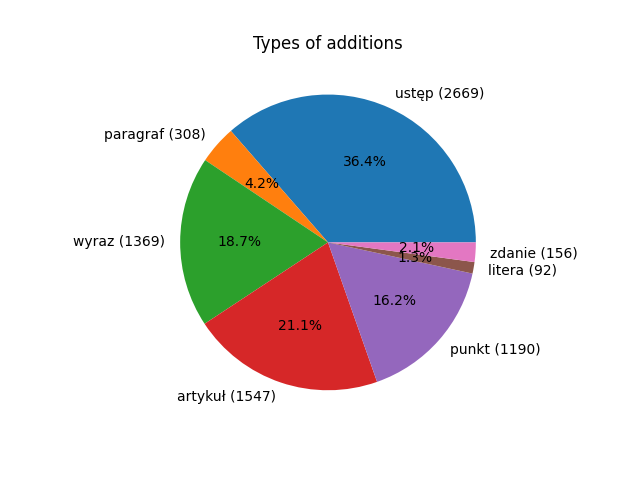
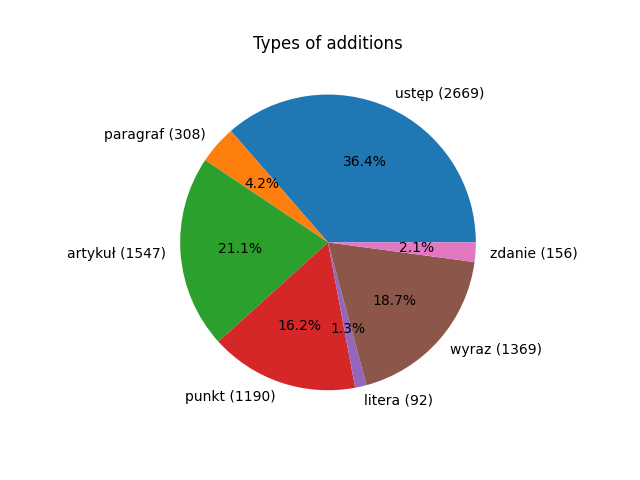
[1] fixes to count by phrase, chart by year

diff --git a/1_regex/main.py b/1_regex/main.py
@@ -1,7 +1,9 @@
+from collections import Counter
+
 from nlp_common.acts_reader import ActsReader
 from by_phrase_counter import ByPhraseUnitCounter
 from matplotlib import pyplot as plt
-
+import numpy as np
 
 class Unit:
     def __init__(self, name, aliases):
@@ -29,35 +31,77 @@ def plot_by_unit(amendment_plot_data, name, path):
     plt.clf()
 
 
-def plot_amendments(adds, rems, chs):
-    plt.pie([adds['ust'], rems['ust'], chs['ust']],
-            labels=[f'additions ({adds["ust"]})', f'removals ({rems["ust"]})', f'changes ({chs["ust"]})'],
+def sum_for_unit(amendments: Counter, unit: Unit):
+    c = 0
+    for alias in unit.aliases:
+        c += amendments[alias]
+    return c
+
+
+def sum_for_units(amendments: Counter, units: [Unit]):
+    c = 0
+    for unit in units:
+        c += sum_for_unit(amendments, unit)
+    return c
+
+
+def plot_amendments(countable_units, adds, rems, chs):
+    ys = [sum_for_units(x, countable_units) for x in [adds, rems, chs]]
+    plt.pie(ys,
+            labels=[f'additions ({ys[0]})', f'removals ({ys[1]})', f'changes ({ys[2]})'],
             autopct='%1.1f%%'
             )
-    plt.title('Amendments of "ustęp"')
-    plt.savefig('img/phrase_counter/ust_amendments.png')
+    plt.title('Amendments of units')
+    plt.savefig('img/phrase_counter/amendments_by_type.png')
     plt.clf()
 
 
-if __name__ == '__main__':
-    acts = lambda: ActsReader('../ustawy').all_acts()
-    # acts = lambda: ActsReader('../ustawy').first_n_acts(10)
+def plot_by_year(years, countable_units, adds_by_year, rems_by_year, chs_by_year):
+    X_axis = np.arange(len(years))
+    plt.xticks(X_axis, years)
+    width = 0.2
+    cwidth = -width
+    for amendments_by_year, label in [(adds_by_year, 'additions'), (rems_by_year, 'removals'), (chs_by_year, 'changes')]:
+        ys = [sum_for_units(amendments_by_year[y], countable_units) for y in years]
+        plt.bar(X_axis + cwidth, ys, width=width, label=label)
+        cwidth += width
+    plt.legend()
+    plt.title('Amendments of units by year')
+    plt.savefig('img/phrase_counter/amendments_by_type_by_year.png')
+    plt.clf()
+
+
+def main():
+    acts_reader = ActsReader('../ustawy')
+    acts = lambda: acts_reader.all_acts()
+    # acts = lambda: acts_reader.random_n_acts(10)
+
+    units = [
+        Unit('ustęp', ['ust', 'ustęp']),
+        Unit('paragraf', ['paragraf', '§']),
+        Unit('artykuł', ['art', 'artykuł']),
+        Unit('punkt', ['pkt', 'punkt']),
+        Unit('litera', ['lit', 'litery']),
+        Unit('wyraz', ['wyraz', 'wyrazy']),
+        Unit('zdanie', ['zdanie', 'zdania']),
+    ]
+    countable_units = units[:4]
     ctr = ByPhraseUnitCounter()
     adds = ctr.count_additions(acts())
     rems = ctr.count_removals(acts())
     chs = ctr.count_changes(acts())
-    units = [
-        Unit('ustęp', ['ust', 'ustęp']),
-        Unit('paragraf', ['paragraf', '§']),
-        Unit('wyraz', ['wyraz', 'wyrazy']),
-        Unit('artykuł', ['art', 'artykuł']),
-        Unit('punkt', ['pkt', 'punkt']),
-        Unit('litera', ['lit', 'litery']),
-        Unit('zdanie', ['zdanie', 'zdania']),
-    ]
-
     for data, name in [(adds, 'additions'), (rems, 'removals'), (chs, 'changes')]:
         plot_data = count_by_unit(units, data)
         plot_by_unit(plot_data, f'Types of {name}', f'img/phrase_counter/by_unit_{name}.png')
 
-    plot_amendments(adds, rems, chs)
+    plot_amendments(countable_units, adds, rems, chs)
+
+    years = acts_reader.years()
+    adds_by_year = ctr.count_additions_by_year(acts(), years)
+    rems_by_year = ctr.count_removals_by_year(acts(), years)
+    chs_by_year = ctr.count_changes_by_year(acts(), years)
+    plot_by_year(years, countable_units, adds_by_year, rems_by_year, chs_by_year)
+
+
+if __name__ == '__main__':
+    main()

diff --git a/1_regex/by_phrase_counter.py b/1_regex/by_phrase_counter.py
@@ -3,20 +3,36 @@ from collections import Counter
 
 
 class ByPhraseUnitCounter:
-    def count_by_regex(self, acts, reg) -> Counter:
+    def count_by_regex_total(self, acts, reg) -> Counter:
         p = regex.compile(reg)
         global_counter = Counter()
-        for act_name, text in acts:
+        for act_name, _, text in acts:
             print(f'Analyzing {act_name}...')
             global_counter += Counter(p.findall(text))
         return global_counter
 
     def count_additions(self, acts) -> Counter:
-        return self.count_by_regex(acts, r'dodaje się ([\w§]+)')
+        return self.count_by_regex_total(acts, r'dodaje się ([\w§]+)')
 
     def count_removals(self, acts) -> Counter:
-        return self.count_by_regex(acts, r'skreśla się ([\w§]+)')
+        return self.count_by_regex_total(acts, r'skreśla się ([\w§]+)')
 
     def count_changes(self, acts) -> Counter:
-        return self.count_by_regex(acts, r'([\w§]+)\.* \d+ otrzymuje brzmienie')
+        return self.count_by_regex_total(acts, r'([\w§]+)\.* \d+ otrzymuje brzmienie')
 
+    def count_by_regex_by_year(self, acts, years, reg) -> {int: Counter}:
+        p = regex.compile(reg)
+        year_counter = dict([(y, Counter()) for y in years])
+        for act_name, year, text in acts:
+            print(f'Analyzing {act_name}...')
+            year_counter[year] += Counter(p.findall(text))
+        return year_counter
+
+    def count_additions_by_year(self, acts, years) -> {int: Counter}:
+        return self.count_by_regex_by_year(acts, years, r'dodaje się ([\w§]+)')
+
+    def count_removals_by_year(self, acts, years) -> {int: Counter}:
+        return self.count_by_regex_by_year(acts, years, r'skreśla się ([\w§]+)')
+
+    def count_changes_by_year(self, acts, years) -> {int: Counter}:
+        return self.count_by_regex_by_year(acts, years, r'([\w§]+)\.* \d+ otrzymuje brzmienie')

diff --git a/nlp_common/nlp_common/acts_reader.py b/nlp_common/nlp_common/acts_reader.py
@@ -1,4 +1,5 @@
 from pathlib import Path
+import random
 
 
 class ActsReader:
@@ -7,7 +8,7 @@ class ActsReader:
 
     def all_acts(self):
         for p in Path(self.path).glob('**/*.txt'):
-            yield p.name, p.read_text()
+            yield p.name, int(p.name[:4]), p.read_text()
 
     def acts_from_year(self, year):
         for i, p in enumerate(Path(self.path).glob(f'**/{year}_*.txt')):
@@ -17,9 +18,18 @@ class ActsReader:
         for i, p in enumerate(Path(self.path).glob('**/*.txt')):
             if i >= n:
                 break
-            yield p.name, p.read_text()
+            yield p.name, int(p.name[:4]), p.read_text()
+
+    def random_n_acts(self, n=10):
+        for i, p in random.choices(list(enumerate(Path(self.path).glob('**/*.txt'))), k=n):
+            yield p.name, int(p.name[:4]), p.read_text()
+
+    def years(self) -> [int]:
+        all_years = {int(p.name[:4]) for p in Path(self.path).glob('**/*.txt')}
+        return list(all_years)
 
 
 if __name__ == '__main__':
-    for name, act in ActsReader().first_n_acts(3):
-        print(act)
+    # for name, year, act in ActsReader('../../ustawy').random_n_acts(3):
+    #     print(name, year)
+    print(ActsReader('../../ustawy').years())

diff --git a/1_regex/README.md b/1_regex/README.md
@@ -4,14 +4,21 @@ Task: https://github.com/apohllo/nlp/blob/master/1-regexp.md
 
 ## Count amendments by phrase
 Amendments are found by specific words that should appear in a text: \
-additions regex: `dodaje się ([\w§]+)`
-removals regex: `skreśla się ([\w§]+)`
+additions regex: `dodaje się ([\w§]+)` \
+removals regex: `skreśla się ([\w§]+)` \
 changes regex: `([\w§]+)\.* \d+ otrzymuje brzmienie`
 
 ![Types of additions](./img/phrase_counter/by_unit_additions.png)
 ![Types of removals](./img/phrase_counter/by_unit_removals.png)
 ![Types of changes](./img/phrase_counter/by_unit_changes.png)
 
-Amendments to "ustęp":
-![Types of amendments](./img/phrase_counter/ust_amendments.png)
+As a "unit" on the next two graphs we treat: ustęp, paragraf, artykuł, punkt.
+
+Amendments of units total:
+
+![Types of amendments](./img/phrase_counter/amendments_by_type.png)
+
+Amendments of units by year:
+
+![Types of amendments](./img/phrase_counter/amendments_by_type_by_year.png)
  

diff --git a/README.md b/README.md
@@ -2,4 +2,4 @@
 
 Tasks: https://github.com/apohllo/nlp
 
-Each directory contains code and description (in README.md) of a solution to one task. 
+Each directory contains a code and a description (in README.md) of a solution to one task. 
